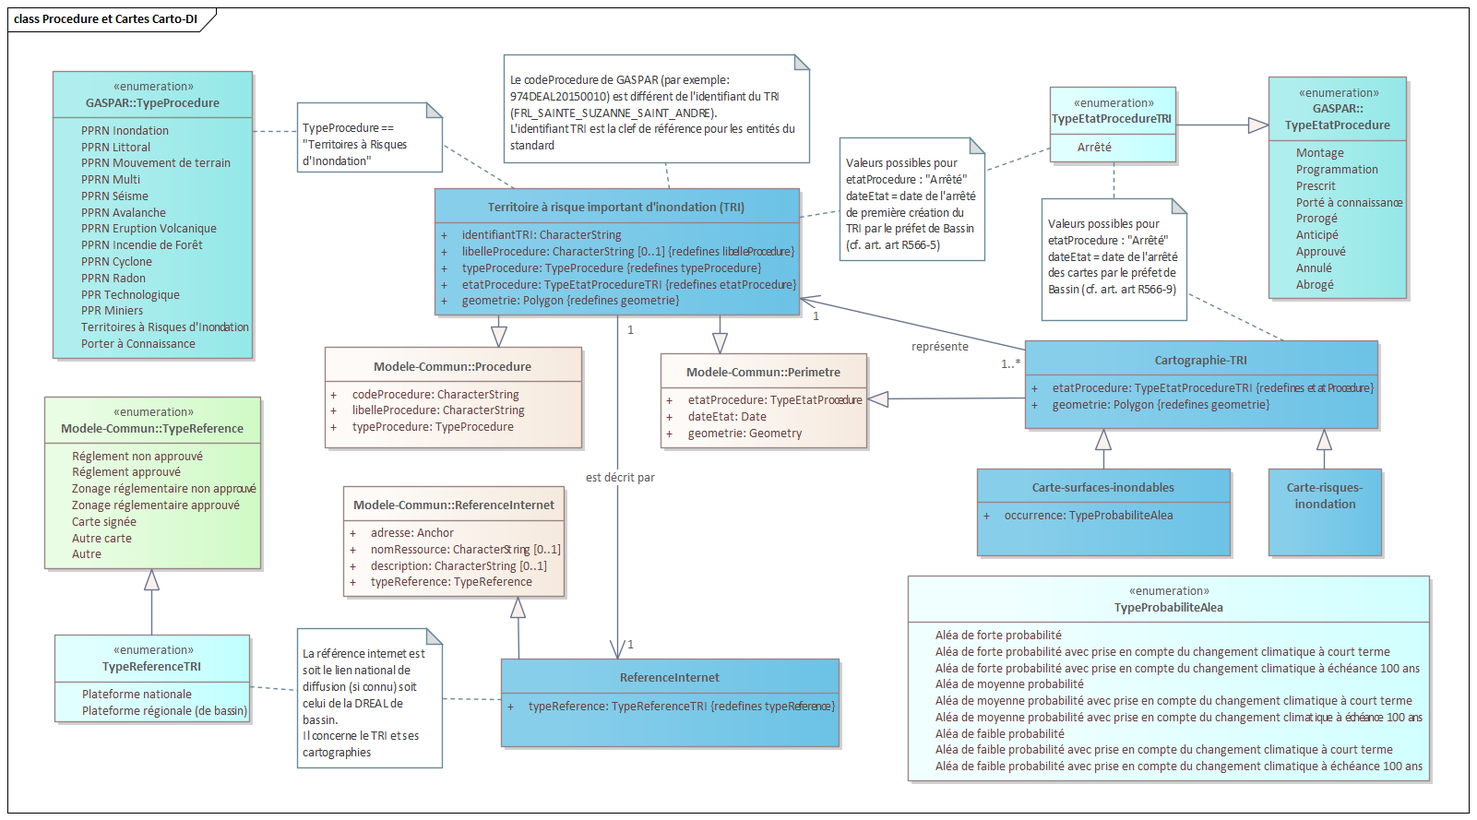
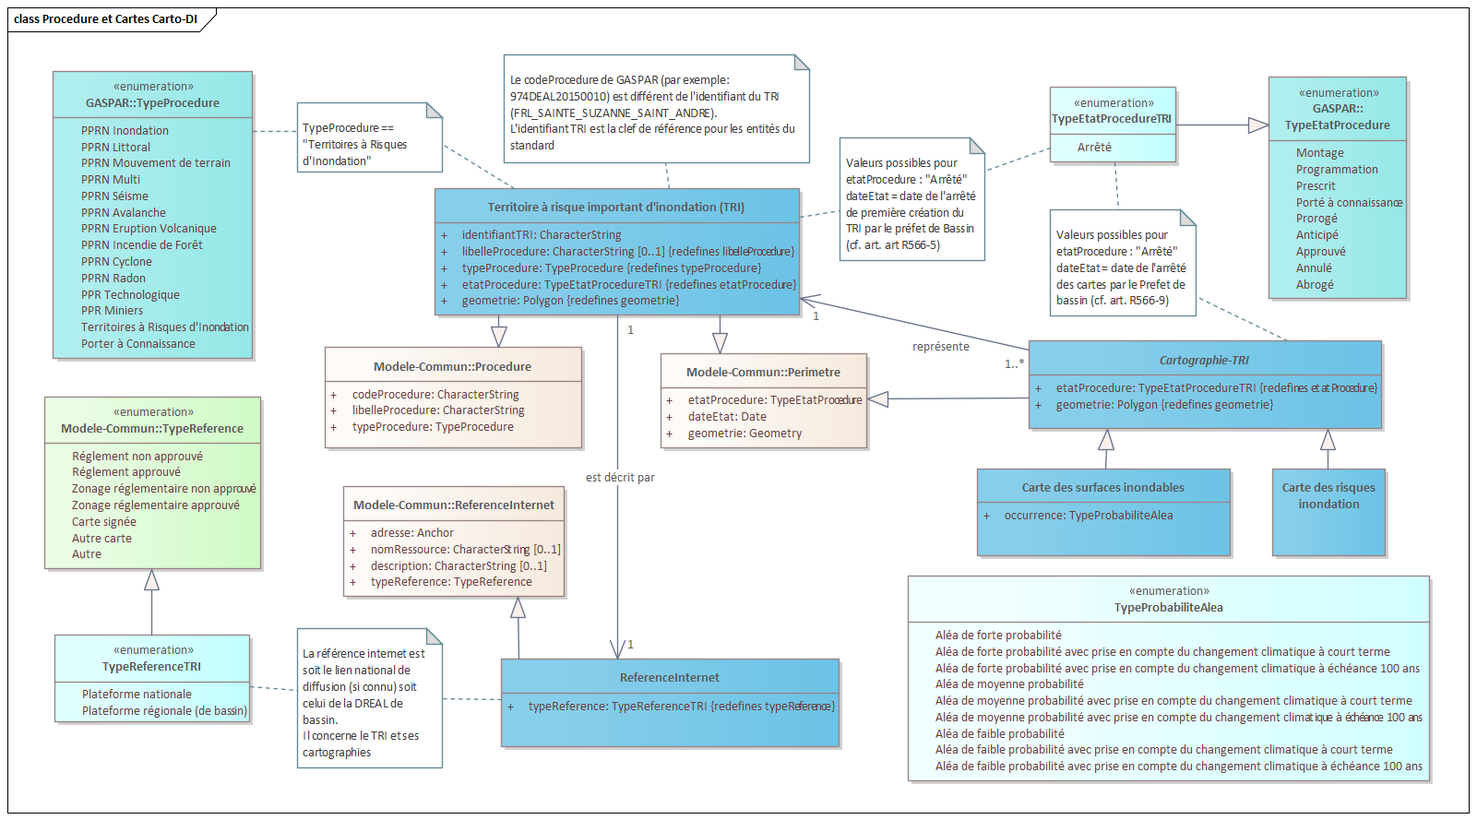
Cadre schema physique + geopackage

diff --git a/standard/Document.md b/standard/Document.md
@@ -136,7 +136,7 @@ La mise en œuvre des cartographies des TRI se fait dans le cadre législatif de
 Elle est transposée en France par la [LOI n° 2010-788 du 12 juillet 2010 portant engagement national pour l'environnement (LENE)](https://www.legifrance.gouv.fr/jorf/id/JORFTEXT000022470434) qui modifie la partie législative du code de l'environnement avec en particulier l'ajout du [chapitre IV relatif à l'évaluation et la gestion des risques d'inondation (Articles L566-1 à L566-13)](https://www.legifrance.gouv.fr/codes/section_lc/LEGITEXT000006074220/LEGISCTA000022479454/#LEGISCTA000022479454) :
 
 * L'[article L566-5](https://www.legifrance.gouv.fr/codes/article_lc/LEGIARTI000051561789) traite de la détermination des TRIs.
-* L'[article L566-6](https://www.legifrance.gouv.fr/codes/article_lc/LEGIARTI000051561783) traite des cartes des surfaces inondables et des cartes de risques d'inondation sur ces territoires.
+* L'[article L566-6](https://www.legifrance.gouv.fr/codes/article_lc/LEGIARTI000051561783) traite des cartes des surfaces inondables et des cartes des risques d'inondation sur ces territoires.
 
 Pour la partie réglementaire, le [décret n° 2011-227 du 2 mars 2011 relatif à l'évaluation et à la gestion des risques d'inondation](https://www.legifrance.gouv.fr/jorf/id/JORFTEXT000023654727) modifie le code de l'environnement avec l'ajout du [Chapitre VI relatif à l'évaluation et la gestion des risques d'inondation (Articles R566-1 à R566-18)](https://www.legifrance.gouv.fr/codes/.section_lc/LEGITEXT000006074220/LEGISCTA000023655627/#LEGISCTA000023655627) :
 
@@ -349,7 +349,7 @@ La [référence internet](#référence-internet) qui lui est associée correspon
 A chaque TRI sont associés des [cartographies TRI](#cartographie-tri), [arrêtées](#typeetatproceduretri) par le préfet de bassin sur lesquelles seront représentées les différents éléments décrits dans les parties suivantes :
 
 * les [cartes de surfaces inondables](#carte-des-surfaces-inondables) décrites pas l'[article R566-6](https://www.legifrance.gouv.fr/codes/article_lc/LEGIARTI000023655649) du code de l'environnement, correspondant à des [probabilités d'aléa](#typeprobabilitealea) ;
-* les [cartes de risque d'inondation](#carte-de-risques-inondation) décrites pas l'[article R566-7](https://www.legifrance.gouv.fr/codes/article_lc/LEGIARTI000033942220) du code de l'environnement.
+* les [cartes de risque d'inondation](#carte-des-risques-inondation) décrites pas l'[article R566-7](https://www.legifrance.gouv.fr/codes/article_lc/LEGIARTI000033942220) du code de l'environnement.
 
 ### Surfaces inondables et caractérisations d'aléas
 
@@ -375,9 +375,9 @@ Les éléments de caractérisation d'aléas suivants peuvent être reportés sur
 * [points remarquables cote vitesse débit](#point-remarquable-cote-vitesse-débit) ;
 * [zone iso classe débit](#zone-iso-classe-débit).
 
-**Exigence :** Une carte de surfaces inondables doit comprendre à minima les zones iso classe de hauteur ou les lignes isocotes ayant permis de calculer les surfaces inondables correspondantes.
+**Exigence :** Une carte des surfaces inondables doit comprendre à minima les zones iso classe de hauteur ou les lignes isocotes ayant permis de calculer les surfaces inondables correspondantes.
 
-Les surfaces inondables sont aussi représentées sur les [cartes de risque d'inondation](#carte-de-risques-inondation).
+Les surfaces inondables sont aussi représentées sur les [cartes de risque d'inondation](#carte-des-risques-inondation).
 
 ### Ouvrages protecteurs et zones associées
 
@@ -401,7 +401,7 @@ Le diagramme UML suivant représente les classes décrivant les enjeux et leur i
 
 Les enjeux représentés sur les cartes de risques sont les suivants :
 
-* Les [enjeux rapportés au TRI](#enjeux-rapportés-tri) en fonction de l'occurrence probable de l'aléa relatent du nombre d'habitants et d'emplois touchés par l'inondation sur le périmètre du TRI. Ils ont vocation a être mentionnés sous forme de cartouche de la carte de risque ;
+* Les [enjeux rapportés au TRI](#enjeux-rapportés-tri) en fonction de l'occurrence probable de l'aléa relatent du nombre d'habitants et d'emplois touchés par l'inondation sur le périmètre du TRI. Ils ont vocation a être mentionnés sous forme de cartouche de la carte des risques d'inondation ;
 * Les objets de la classe [Enjeu](#enjeu) héritée du modèle commun, localisés sur la carte dont la classification se fait selon la nomenclature des enjeux PPRN enrichie pour les besoins spécifiques de la directive inondation ([NomenclatureCartoDI](#nomenclature-enjeux-carto-di)).
 
 ## Catalogue d'objets
@@ -466,7 +466,7 @@ Les attributs pointant vers des référentiels externes (dits attributs pivots) 
 |  |  |
 |---|---|
 | **Classe d'objet** | **`Cartographie TRI`** |
-| **Définition** | Cette classe abstraite porte les propriétés communes aux deux types de cartographies de la directive inondation [Carte des surfaces inondables](#carte-des-surfaces-inondables) et [Carte de risques inondation](#carte-de-risques-inondation) prévues respectivement par les articles [R566-6](https://www.legifrance.gouv.fr/codes/article_lc/LEGIARTI000023655649) et [R566-7](https://www.legifrance.gouv.fr/codes/article_lc/LEGIARTI000033942220) du code de l'environnement. |
+| **Définition** | Cette classe abstraite porte les propriétés communes aux deux types de cartographies de la directive inondation [Carte des surfaces inondables](#carte-des-surfaces-inondables) et [Carte des risques inondation](#carte-des-risques-inondation) prévues respectivement par les articles [R566-6](https://www.legifrance.gouv.fr/codes/article_lc/LEGIARTI000023655649) et [R566-7](https://www.legifrance.gouv.fr/codes/article_lc/LEGIARTI000033942220) du code de l'environnement. |
 | **Regroupement (facultatif)** |   |
 | **Modélisation géométrique** | La géométrie correspond au rectangle englobant de la carte. |
 | **Primitive graphique** | Polygon |
@@ -507,39 +507,39 @@ Les autres attributs sont ceux de la classe [Cartographie TRI](#attributs-de-la-
 
 | Nom de l'association| Définition | Classe de départ (occurrence) | Classe d'arrivée (occurrence) |
 |-|-|-|-|
-| `est représenté sur` | Relation sémantique permettant de rattacher une surface inondable à la carte de surfaces inondables où elle doit être représentée | [Surface inondable](#surface-inondable)(1..*) | [Carte des surfaces inondables](#carte-des-surfaces-inondables)(0..*) |
+| `est représenté sur` | Relation sémantique permettant de rattacher une surface inondable à la carte des surfaces inondables où elle doit être représentée | [Surface inondable](#surface-inondable)(1..*) | [Carte des surfaces inondables](#carte-des-surfaces-inondables)(0..*) |
 | `est représenté sur` | Relation sémantique permettant de rattacher une ligne iso cote à la carte des surfaces inondables où elle peut être représentée | [Ligne iso côte](#ligne-iso-cote)(0..*) | [Carte des surfaces inondables](#carte-des-surfaces-inondables)(0..*) |
 | `est représenté sur` | Relation sémantique permettant de rattacher une zone iso classe de hauteur à la carte des surfaces inondables où elle doit être représentée | [Zone iso classe hauteur](#zone-iso-classe-hauteur)(0..*) | [Carte des surfaces inondables](#carte-des-surfaces-inondables)(1..*) |
 | `est représenté sur` | Relation sémantique permettant de rattacher une zone iso classe vitesse à la carte des surfaces inondables où elle peut être représentée | [Zone iso classe vitesse](#zone-iso-classe-vitesse)(0..*) | [Carte des surfaces inondables](#carte-des-surfaces-inondables)(0..*) |
 | `est représenté sur` | Relation sémantique permettant de rattacher un point remarquable cote vistesse débit à la carte des surfaces inondables où il peut être représentée | [Point remarquable cote vitesse débit](#point-remarquable-cote-vitesse-débit)(0..*) | [Carte des surfaces inondables](#carte-des-surfaces-inondables)(0..*) |
 | `est représenté sur` | Relation sémantique permettant de rattacher une zone iso classe débit à la carte des surfaces inondables où elle peut être représentée | [Zone iso classe débit](#zone-iso-classe-débit)(0..*) | [Carte des surfaces inondables](#carte-des-surfaces-inondables)(0..*) |
-| `est représenté sur` | Relation sémantique permettant de rattacher un ouvrage protecteur à la carte de surfaces inondables où il peut être représenté | [Ouvrage protecteur](#ouvrage-protecteur)(1..*) | [Carte des surfaces inondables](#carte-des-surfaces-inondables)(0..*) |
+| `est représenté sur` | Relation sémantique permettant de rattacher un ouvrage protecteur à la carte des surfaces inondables où il peut être représenté | [Ouvrage protecteur](#ouvrage-protecteur)(1..*) | [Carte des surfaces inondables](#carte-des-surfaces-inondables)(0..*) |
 
 
 Cf. aussi [associations de la classe Cartographie TRI](#associations-de-la-classe-cartographie-tri)
 
-### Carte de risques inondation
+### Carte des risques inondation
 
 | | |
 | - | - |
-| **Classe d'objet** | **`Carte de risque inondation`** |
+| **Classe d'objet** | **`Carte des risques inondation`** |
 | **Définition** | Cette classe spécialise la classe [Cartographie TRI](#cartographie-tri) pour l'établissement des cartes de risques d'inondation telles que décrites par l'article [R566-7](https://www.legifrance.gouv.fr/codes/article_lc/LEGIARTI000033942220) du code de l'environnement. Elle comporte les mêmes propriétés. |
 | **Regroupement (facultatif)** |   |
 | **Modélisation géométrique** | La géométrie correspond au rectangle englobant de la carte. |
 | **Primitive graphique** | Polygon |
 
-#### Attributs de la classe de risques inondation
+#### Attributs de la classe des risques inondation
 
 Cf. attributs de la classe [Cartographie TRI](#attributs-de-la-classe-cartographie-tri)
 
-#### Associations de la classe carte de risques inondation
+#### Associations de la classe carte des risques inondation
 
 | Nom de l'association| Définition | Classe de départ (occurrence) | Classe d'arrivée (occurrence) |
 | - | - | - | - |
-| `est représenté sur` | Relation sémantique permettant de rattacher une surface inondable à la carte de risques inondation où elle doit être représentée. | [Surface inondable](#surface-inondable)(1..*) | [Carte de risques inondation](#carte-de-risques-inondation)(0..*) |
-| `est représenté sur` | Relation sémantique permettant de rattacher un ouvrage protecteur à la carte de risques inondation où il peut être représenté | [Ouvrage protecteur](#ouvrage-protecteur)(1..*) | [Carte de risques inondation](#carte-de-risques-inondation)(0..*) |
-| `est représenté sur` | Relation sémantique permettant de rattacher un enjeu à la carte de risques inondation où il doit être représentée. | [Enjeu](#enjeu)(1..*) | [Carte de risques inondation](#carte-de-risques-inondation)(0..*) |
-| `sont représentés sur` | Relation sémantique permettant de rattacher des enjeux rapportés à la carte de risques inondation où ils doivent être représentés. | [Enjeux rapportés](#enjeux-rapportés-tri)(1..*) | [Carte de risques inondation](#carte-de-risques-inondation)(1) |
+| `est représenté sur` | Relation sémantique permettant de rattacher une surface inondable à la carte des risques inondation où elle doit être représentée. | [Surface inondable](#surface-inondable)(1..*) | [Carte des risques inondation](#carte-des-risques-inondation)(0..*) |
+| `est représenté sur` | Relation sémantique permettant de rattacher un ouvrage protecteur à la carte des risques inondation où il peut être représenté | [Ouvrage protecteur](#ouvrage-protecteur)(1..*) | [Carte des risques inondation](#carte-des-risques-inondation)(0..*) |
+| `est représenté sur` | Relation sémantique permettant de rattacher un enjeu à la carte des risques inondation où il doit être représentée. | [Enjeu](#enjeu)(1..*) | [Carte des risques inondation](#carte-des-risques-inondation)(0..*) |
+| `sont représentés sur` | Relation sémantique permettant de rattacher des enjeux rapportés à la carte des risques inondation où ils doivent être représentés. | [Enjeux rapportés](#enjeux-rapportés-tri)(1..*) | [Carte des risques inondation](#carte-des-risques-inondation)(1) |
 
 Cf. aussi [associations de la classe Cartographie TRI](#associations-de-la-classe-cartographie-tri)
 
@@ -596,7 +596,7 @@ Cf. [associations de la classe TRI](#associations-de-la-classe-tri)
 | `est caractérisé par` | Une surface inondable peut être caractérisée par un ensemble de zones iso classe débit | [Surface inondable](#surface-inondable)(1) | [Zone iso classe débit](#zone-iso-classe-débit)(0..*) |
 | `est généré par` | Une surface inondable peut être générée par une ou plusieurs origines de rique | [Surface inondable](#surface-inondable)(0..*) | [Origine du risque](#origine-du-risque)(0..*) |
 
-Cf. aussi [associations de la classe Carte des surfaces inondables](#associations-de-la-classe-carte-des-surfaces-inondables) et [associations de la classe Carte de risques inondation](#associations-de-la-classe-carte-de-risques-inondation)
+Cf. aussi [associations de la classe Carte des surfaces inondables](#associations-de-la-classe-carte-des-surfaces-inondables) et [associations de la classe Carte des risques inondation](#associations-de-la-classe-carte-des-risques-inondation)
 
 ### Origine du risque
 
@@ -759,7 +759,7 @@ Cf. [associations de la classe surface inondable](#associations-de-la-classe-sur
 | `engendre` | Relation sémantique permettant de rattacher une zone protégée à un ouvrage protecteur | [Zone protégée](#zone-protégée)(0..*) | [Ouvrage protecteur](#ouvrage-protecteur)(1) |
 | `engendre` | Relation sémantique permettant de rattacher une zone de sur-aléa à un ouvrage protecteur qui la génère | [Zone de sur-aléa](#zone-de-sur-aléa)(0..*) | [Ouvrage protecteur](#ouvrage-protecteur)(0..1) |
 
-Cf. aussi [associations de la classe Carte des surfaces inondables](#associations-de-la-classe-carte-des-surfaces-inondables) et [associations de la classe Carte de risques inondation](#associations-de-la-classe-carte-de-risques-inondation).
+Cf. aussi [associations de la classe Carte des surfaces inondables](#associations-de-la-classe-carte-des-surfaces-inondables) et [associations de la classe Carte des risques inondation](#associations-de-la-classe-carte-des-risques-inondation).
 
 ### Zone protégée
 
@@ -781,7 +781,7 @@ Cf. aussi [associations de la classe Carte des surfaces inondables](#association
 
 #### Associations de la classe Zone protégée
 
-Cf.  [associations de la classe Ouvrage Protecteur](#associations-de-la-classe-ouvrage-protecteur), [associations de la classe Carte des surfaces inondables](#associations-de-la-classe-carte-des-surfaces-inondables) et [associations de la classe Carte de risques inondation](#associations-de-la-classe-carte-de-risques-inondation).
+Cf.  [associations de la classe Ouvrage Protecteur](#associations-de-la-classe-ouvrage-protecteur), [associations de la classe Carte des surfaces inondables](#associations-de-la-classe-carte-des-surfaces-inondables) et [associations de la classe Carte des risques inondation](#associations-de-la-classe-carte-des-risques-inondation).
 
 ### Zone de sur-aléa
 
@@ -802,7 +802,7 @@ Cf.  [associations de la classe Ouvrage Protecteur](#associations-de-la-classe-o
 
 #### Associations de la classe Zone de sur-aléa
 
-Cf.  [associations de la classe Ouvrage Protecteur](#associations-de-la-classe-ouvrage-protecteur), [associations de la classe Carte des surfaces inondables](#associations-de-la-classe-carte-des-surfaces-inondables) et [associations de la classe Carte de risques inondation](#associations-de-la-classe-carte-de-risques-inondation).
+Cf.  [associations de la classe Ouvrage Protecteur](#associations-de-la-classe-ouvrage-protecteur), [associations de la classe Carte des surfaces inondables](#associations-de-la-classe-carte-des-surfaces-inondables) et [associations de la classe Carte des risques inondation](#associations-de-la-classe-carte-des-risques-inondation).
 
 ### Enjeu
 
@@ -827,7 +827,7 @@ Cf.  [associations de la classe Ouvrage Protecteur](#associations-de-la-classe-o
 
 #### Associations de la classe Enjeu
 
-Cf. [associations de la classe Carte de risques inondation](#associations-de-la-classe-carte-de-risques-inondation).
+Cf. [associations de la classe Carte des risques inondation](#associations-de-la-classe-carte-des-risques-inondation).
 
 ### Enjeux rapportés TRI
 
@@ -836,7 +836,7 @@ Cf. [associations de la classe Carte de risques inondation](#associations-de-la-
 | **Classe d'objet** | **`Enjeux rapportés TRI`** |
 | **Définition** | Cette classe, uniquement attributaire, permet de rassembler des données quantitatives sur les nombres d'emplois et d'habitants affectés par le risque inondation en fonction des probabilités de survenue de l'inondation. |
 | **Modélisation géométrique** | Cette classe n'a pas de géométrie associée. |
-| **Primitive graphique** | La représentation des enjeux rapportés se fait sous forme de cartouche sur la carte de risques inondations |
+| **Primitive graphique** | La représentation des enjeux rapportés se fait sous forme de cartouche sur la carte des risques d'inondation |
 
 #### Attributs de la classe Enjeux rapportés TRI
 
@@ -849,7 +849,7 @@ Cf. [associations de la classe Carte de risques inondation](#associations-de-la-
 
 #### Associations de la classe Enjeu rapportés
 
-Cf. [associations de la classe Carte de risques inondation](#associations-de-la-classe-carte-de-risques-inondation).
+Cf. [associations de la classe Carte des risques inondation](#associations-de-la-classe-carte-des-risques-inondation).
 
 ## Description des types de données et énumérés
 
@@ -1282,7 +1282,221 @@ Le management de la donnée représente une vision de l’information, non pas c
 |  |  |
 
 # Diffusion
-`<Cette partie vise à fournir des instructions, des exigences, conventions d’échange et/ou des descriptions du format de diffusion des données et des moyens de livraison physique, ou bien des moyens de diffusion de données via des services de téléchargement ou d'affichage.>` 
+
+Cette partie traite de l'implémentation du modèle conceptuel de données décrit [ci-dessus](#modèle-conceptuel-de-données-mcd), notamment le schéma physique qui en est dérivé en vue d'un échange d'un jeu de données associé à un TRI au format standard GeoPackage, mais aussi applicable à la plupart des formats reposant sur des bases de données relationnelles.
+
+Les considérations relatives à la diffusion des données en flux de données sous forme de services ou API Web ne sont pas couvertes par ce document. Ce mode de diffusion pourra néanmoins s'appuyer sur le schéma physique décrit ici.
+
+## Schéma physique et format d'échange
+
+Le format GeoPackage est le format d'échange prescrit par ce standatd pour un jeu de données des cartographies de la directive inondation.
+
+Dans ce qui suit, on sépare la partie [schéma physique](#schéma-physique) qui décrit l'implémentation du modèle conceptuel sous forme de tables relationnelles et les [aspects spécifiques d'implémentation relatifs à l'utilisation du format GeoPackage](#spécificités-du-format-geopackage).
+
+### Schéma physique
+
+#### Choix d'implémentations
+
+_TBD : granularité d'un jeu de données, identifiants stables, minuscules, tirets du 8, nommage des tables, suffixe geom slp, tables d'énumérations, types des colonnes_
+
+#### Tables du standard
+
+_TBD : Liste des tables et obligations d'implémentation_
+
+##### Table `tri_s`
+
+La table `tri` implémente la classe [Territoire à risque important d'inondation (TRI)](#territoire-à-risque-important-dinondation-tri). Elle a la structure suivante :
+
+| nom colonne | type | domaine de valeurs, précisions |
+|-|-|-|
+
+##### Table `carte_surfaces_inondables_s`
+
+La table `carte_surfaces_inondables_s` implémente la classe [Carte des surfaces inondables](#carte-des-surfaces-inondables). Elle a la structure suivante :
+
+| nom colonne | type | domaine de valeurs, précisions |
+|-|-|-|
+
+
+##### Table `carte_risques_inondation_s`
+
+La table `carte_risques_inondation_s` implémente la classe [Carte des risques inondation](#carte-des-risques-inondation). Elle a la structure suivante :
+
+| nom colonne | type | domaine de valeurs, précisions |
+|-|-|-|
+
+
+##### Table `surface_inondable_s`
+
+La table `surface_inondable_s` implémente la classe [Surface inondable](#surface-inondable). Elle a la structure suivante :
+
+| nom colonne | type | domaine de valeurs, précisions |
+|-|-|-|
+
+
+
+##### Table `zone_iso_classe_hauteur_s`
+
+La table `zone_iso_classe_hauteur_s` implémente la classe [Zone iso classe hauteur](#zone-iso-classe-hauteur). Elle a la structure suivante :
+
+| nom colonne | type | domaine de valeurs, précisions |
+|-|-|-|
+
+
+##### Table `zone_iso_classe_vitesse_s`
+
+La table `zone_iso_classe_vitesse_s` implémente la classe [Zone iso classe vitesse](#zone-iso-classe-vitesse). Elle a la structure suivante :
+
+| nom colonne | type | domaine de valeurs, précisions |
+|-|-|-|
+
+
+##### Table `zone_iso_classe_debit_s`
+
+La table `zone_iso_classe_debit_s` implémente la classe [](#zone-iso-classe-débit). Elle a la structure suivante :
+
+| nom colonne | type | domaine de valeurs, précisions |
+|-|-|-|
+
+
+##### Table `ligne_iso_cote_l`
+
+La table `ligne_iso_cote_l` implémente la classe [](#ligne-iso-cote). Elle a la structure suivante :
+
+| nom colonne | type | domaine de valeurs, précisions |
+|-|-|-|
+
+
+##### Table `point_remarquable_cvd_p`
+
+La table `point_remarquable_cvd_p` implémente la classe [Point remarquable cote vitesse débit](#point-remarquable-cote-vitesse-débit). Elle a la structure suivante :
+
+| nom colonne | type | domaine de valeurs, précisions |
+|-|-|-|
+
+
+##### Table `zone_protegee_s`
+
+La table `zone_protegee_s` implémente la classe [Zone protégée](#zone-protégée). Elle a la structure suivante :
+
+| nom colonne | type | domaine de valeurs, précisions |
+|-|-|-|
+
+
+##### Table `ouvrageprotecteur_l`
+
+La table `ouvrageprotecteur_l` implémente la classe [Ouvrage protecteur](#ouvrage-protecteur). Elle a la structure suivante :
+
+| nom colonne | type | domaine de valeurs, précisions |
+|-|-|-|
+
+
+##### Table `zonesuralea_s`
+
+La table `zonesuralea_s` implémente la classe [Zone de sur-aléa](#zone-de-sur-aléa). Elle a la structure suivante :
+
+| nom colonne | type | domaine de valeurs, précisions |
+|-|-|-|
+
+
+##### Table `enjeu_s`
+
+La table `enjeu_s` implémente la classe [Enjeu](#enjeu) pour les enjeux ayant une géométrie surfacique. Elle a la structure suivante :
+
+| nom colonne | type | domaine de valeurs, précisions |
+|-|-|-|
+
+
+##### Table `enjeu_l`
+
+La table `enjeu_l` implémente la classe [Enjeu](#enjeu) pour les enjeux ayant une géométrie linéaire. Elle a la même structure la table `enjeu_s` a part pour la colonne `geom` qui a la définition suivante :
+
+| nom colonne | type | domaine de valeurs, précisions |
+|-|-|-|
+
+##### Table `enjeu_p`
+
+La table `enjeu_p` implémente la classe [Enjeu](#enjeu) pour les enjeux ayant une géométrie ponctuelle. Elle a la même structure la table `enjeu_s` a part pour la colonne `geom` qui a la définition suivante :
+
+| nom colonne | type | domaine de valeurs, précisions |
+|-|-|-|
+
+
+##### Table `enjeux_raportes_tri`
+
+La table `enjeux_raportes_tri` implémente la classe [Enjeux rapportés TRI](#enjeux-rapportés-tri). Elle a la structure suivante :
+
+| nom colonne | type | domaine de valeurs, précisions |
+|-|-|-|
+
+
+##### Table de valeurs `typereferencetri`
+
+La table de valeurs `typereferencetri` implémente l'énumération [Typereferencetri](#typereferencetri). Le tableau suivant précise les codes et libellés pour cette table.
+
+| code | libellé |
+|-|-|
+
+
+##### Table de valeurs `typeprobabilitealea`
+
+La table de valeurs `typeprobabilitealea` implémente l'énumération [Typeprobabilitealea](#typeprobabilitealea). Le tableau suivant précise les codes et libellés pour cette table.
+
+| code | libellé |
+|-|-|
+
+
+##### Table de valeurs `typealeacartodi`
+
+La table de valeurs `typealeacartodi` implémente l'énumération [Typeprobabilitealea](#typealeacartodi). Le tableau suivant précise les codes et libellés pour cette table.
+
+| code | libellé |
+|-|-|
+
+
+##### Table de valeurs `typeclassehauteureau`
+
+La table de valeurs `typeclassehauteureau` implémente l'énumération [Typeclassehauteureau](#typeclassehauteureau). Le tableau suivant précise les codes et libellés pour cette table.
+
+| code | libellé |
+|-|-|
+
+
+##### Table de valeurs `typevitesseecoulement`
+
+La table de valeurs `typevitesseecoulement` implémente l'énumération [Typevitesseecoulement](#typevitesseecoulement). Le tableau suivant précise les codes et libellés pour cette table.
+
+| code | libellé |
+|-|-|
+
+
+
+##### Table d'énumération `typeouvrageprotecteur`
+
+La table de valeurs `typeouvrageprotecteur` implémente l'énumération [Typeouvrageprotecteur](#typeouvrageprotecteur). Le tableau suivant précise les codes et libellés pour cette table.
+
+| code | libellé |
+|-|-|
+
+##### Table d'énumération `typerefexterneouvrage`
+
+La table de valeurs `typerefexterneouvrage` implémente l'énumération [Typerefexterneouvrage](#typerefexterneouvrage). Le tableau suivant précise les codes et libellés pour cette table.
+
+| code | libellé |
+|-|-|
+
+##### Table d'énumération `typeenjeucartodi`
+
+La table de valeurs `typeenjeucartodi` implémente la [nomenclature des enjeux carto DI](#nomenclature-enjeux-carto-di). Le tableau suivant précise les codes et libellés pour cette table.
+
+| code | libellé |
+|-|-|
+
+
+
+### Spécificités du format GeoPackage
+
+_TBD : tables gpkg_xxx, identifiants fid, metadonnées_
 
 # Métadonnées
 
